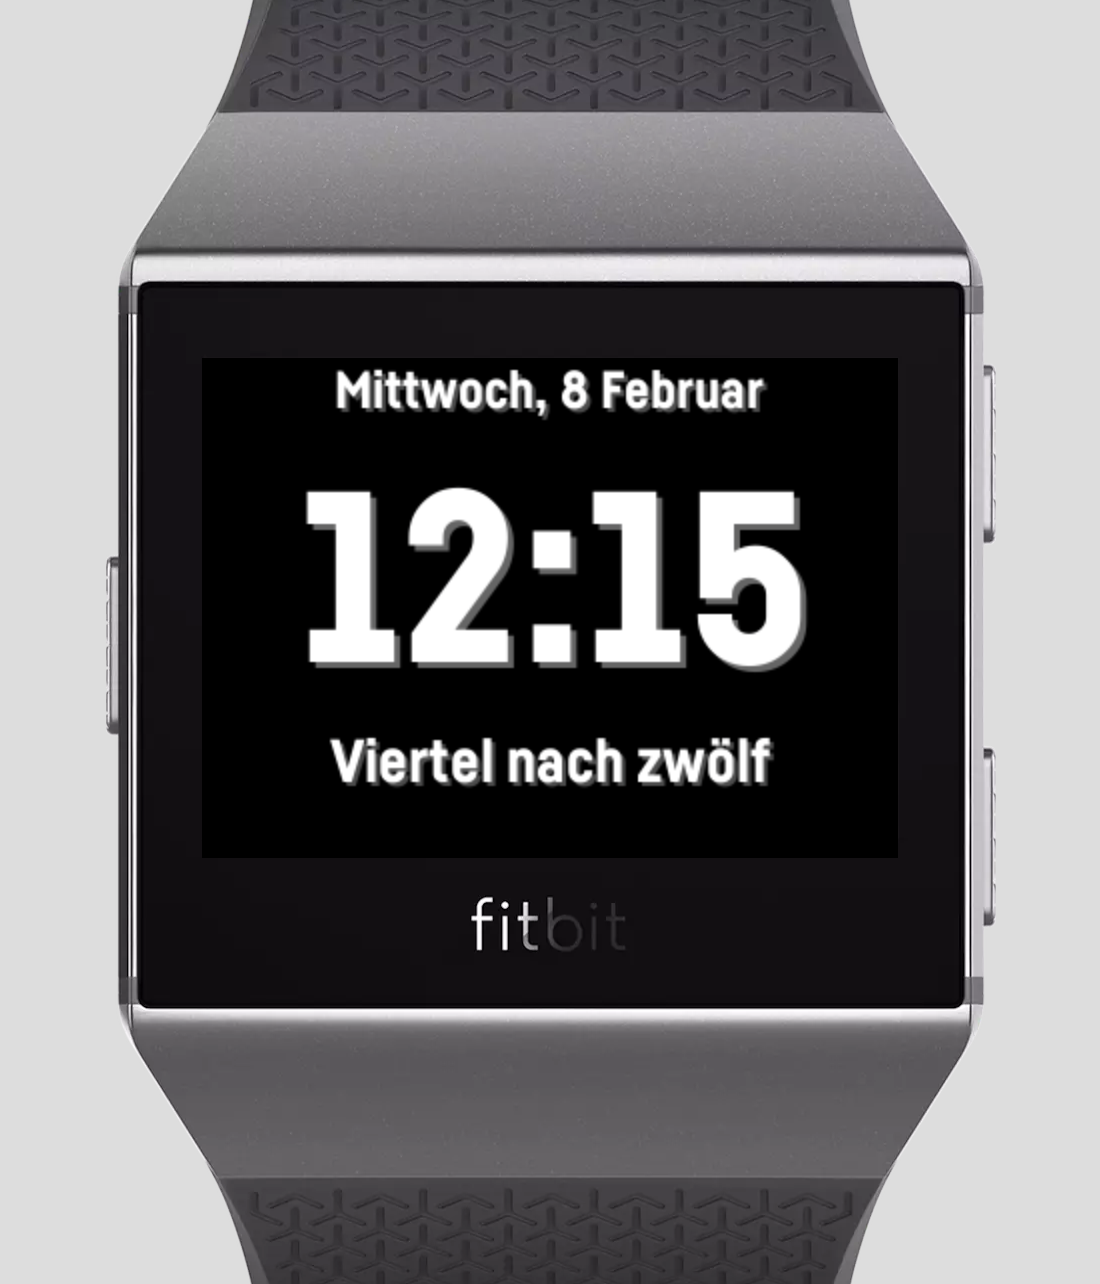
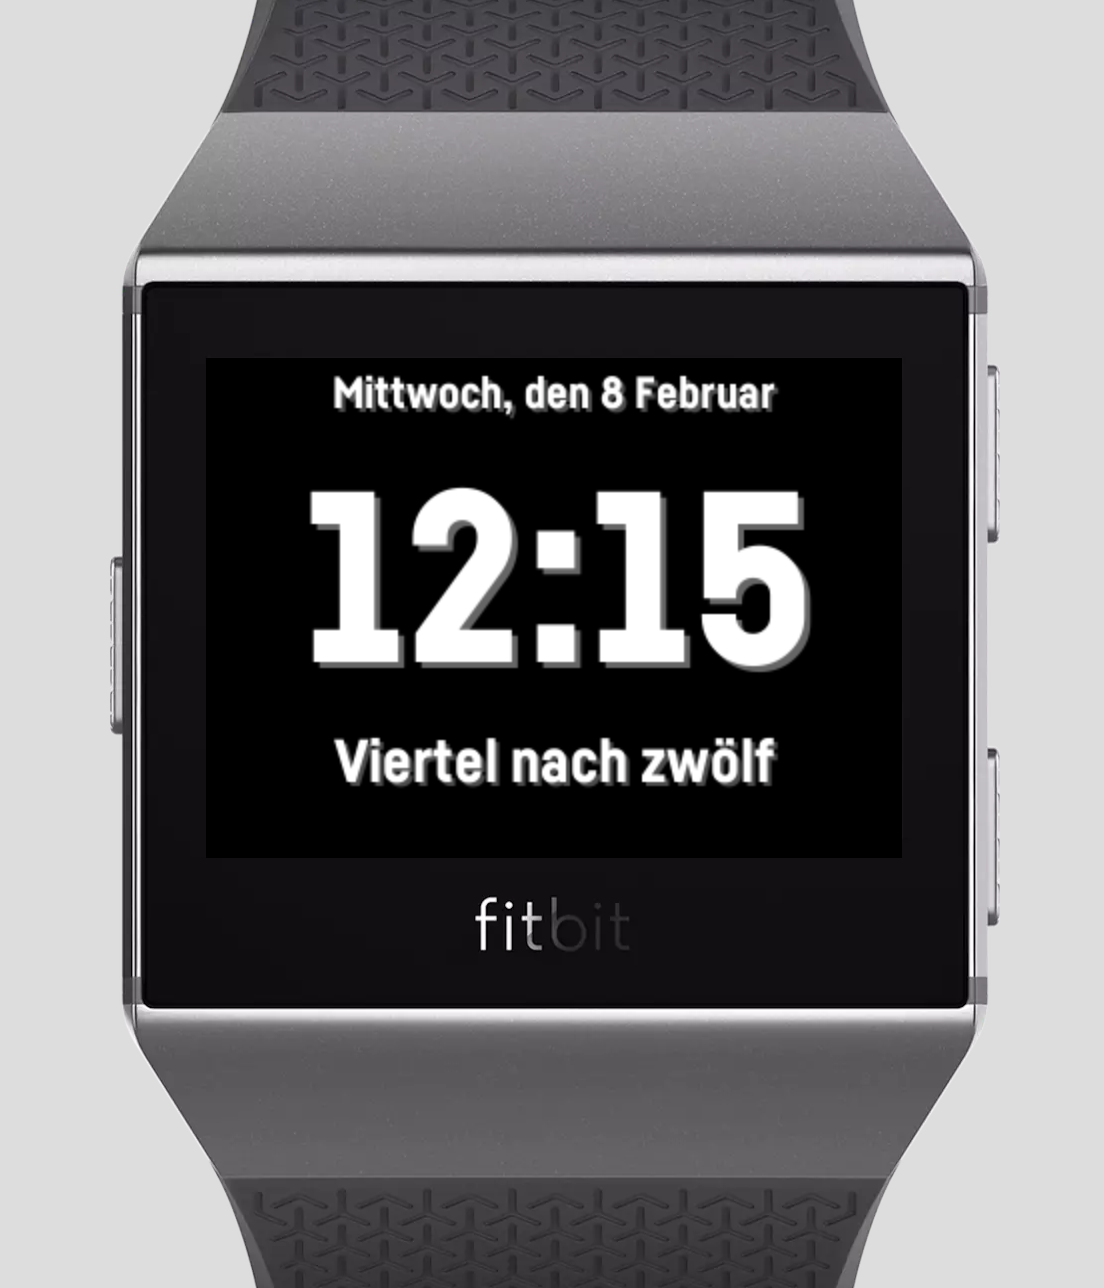
Fix date presentation

diff --git a/app/test/date.spec.ts b/app/test/date.spec.ts
@@ -2,10 +2,10 @@ import {Date} from "../date";
 
 test('should convert November 7 to words', () =>
     expect(new Date(7, 10, 4).inWords())
-        .toBe('Donnerstag, 7 November')
+        .toBe('Donnerstag, den 7 November')
 );
 
 test('should convert to words when week starts from Monday', () =>
     expect(new Date(10, 10, 7).inWords())
-        .toBe('Sonntag, 10 November')
+        .toBe('Sonntag, den 10 November')
 );

diff --git a/app/date.ts b/app/date.ts
@@ -9,7 +9,7 @@ export class Date {
 
     inWords(): string {
         const month = months[this.month];
-        return `${this.weekDay()}, ${this.date} ${month}`;
+        return `${this.weekDay()}, den ${this.date} ${month}`;
     }
 
     private weekDay(): string {

diff --git a/resources/styles.css b/resources/styles.css
@@ -11,12 +11,12 @@ text {
 }
 
 #dateBox {
-  font-size: 26;
+  font-size: 22;
   y: 10%;
 }
 
 #dateBoxShadow {
-  font-size: 26;
+  font-size: 22;
   x: 50%+2;
   y: 10%+2;
 }
